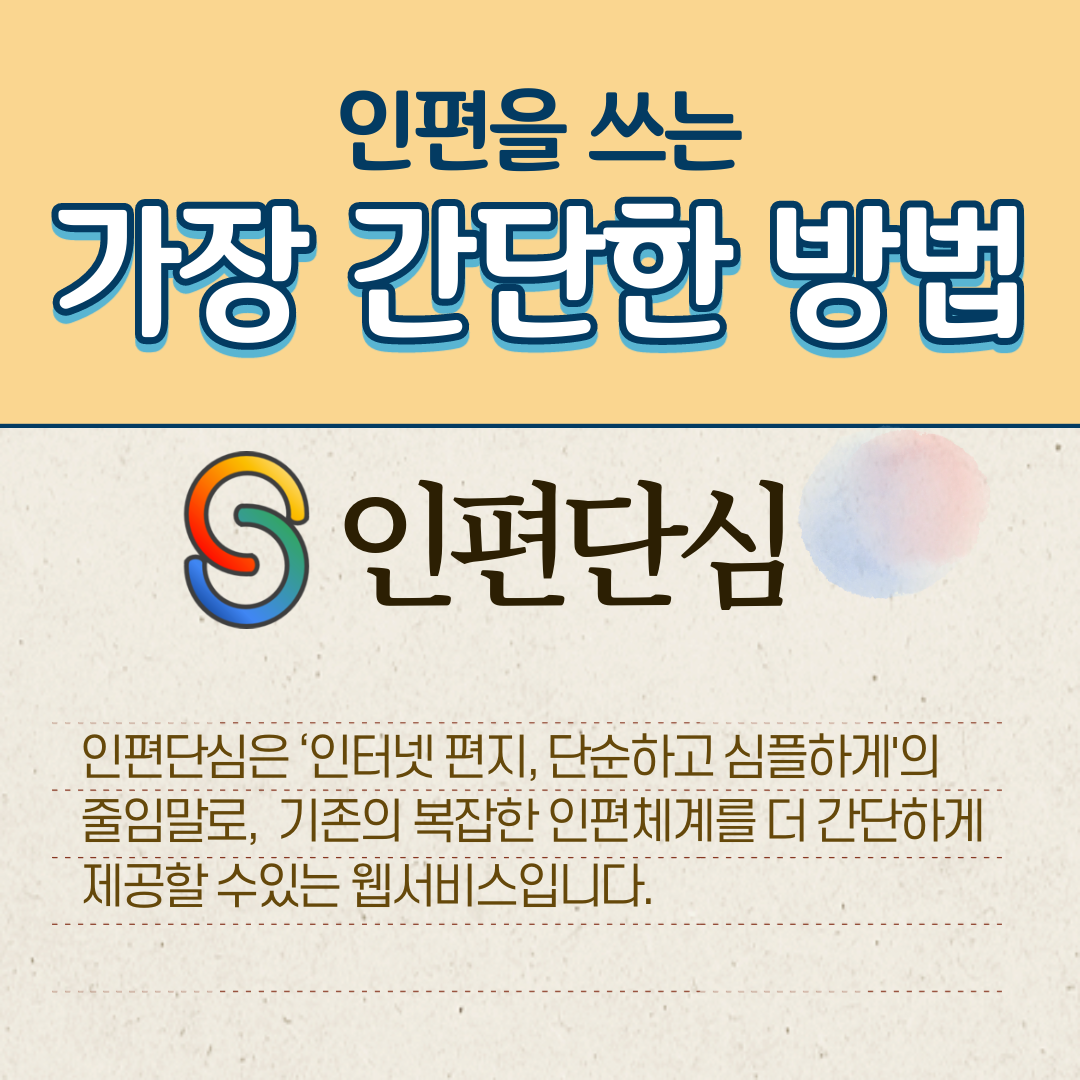
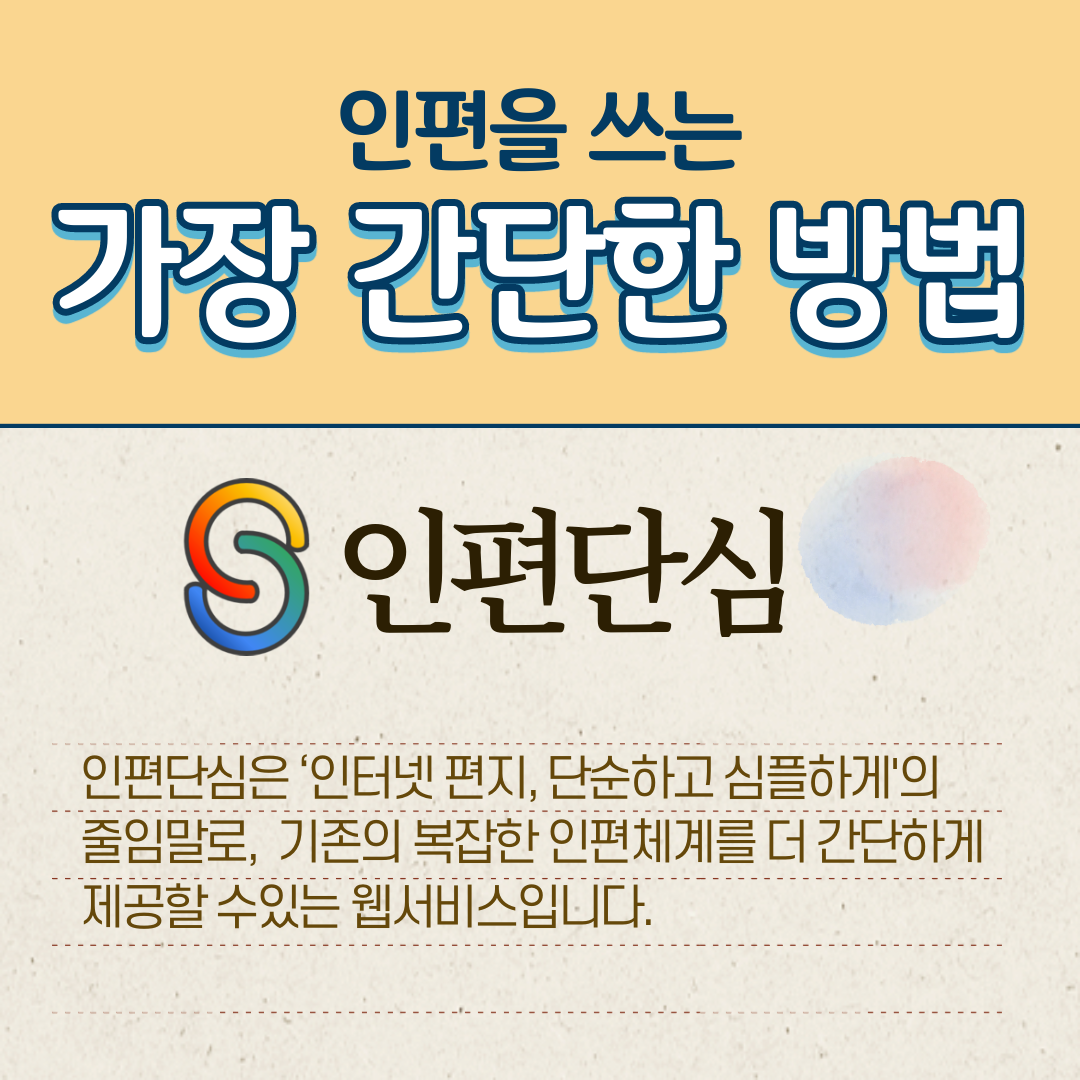
docs & resource. 포스터 사진 수정, 리드비 수정

Changed region(s): [[0.0611, 0.6722, 0.9167, 0.8861], [0.1528, 0.3972, 0.8556, 0.6111], [0.7944, 0.3972, 0.8861, 0.4278]]

diff --git a/README.md b/README.md
@@ -8,20 +8,18 @@
 
 로고는 '단순함'을 뜻하는 simple의 S와, 육,해,공,해병대 서로다른 4색의 훈련소를 연결시킨다는 의미를 담고 있습니다.
 
-## 프로젝트 설명
-<p><b>인편단심</b>은 훈련소에 편지를 보내는 사용자들이 보다 간단한 절차를 밟을 수 있고, 사용자들이 편지에 쓰는 내용과 패턴에
-기반하여 만들어진 기능을 사용할 수 있는 웹 플랫폼입니다.</p>
-## 팀소개 및 프로잭트 설명 동영상(제작중)
-[![Watch the video](https://img.youtube.com/vi/LjX3eVQdIyk/0.jpg)](https://www.youtube.com/watch?time_continue=117&v=LjX3eVQdIyk)
-
 ## 팀소개 및 프로젝트 설명 동영상(제작중)
 ![poster](img/poster.png)
 * __[데모 페이지 보기](https://osamhack2020.github.io/WEB_InpenDansim_INPENDANSIM/)__
-* __[설명영상]()__
-* __[시연영상]()__
+
+* __[설명영상 보러가기]()__
+[![newface](https://youtu.be/fRmO3CGaeWQ/0.jpg)](https://youtu.be/fRmO3CGaeWQ)
+
+* __[시연영상 보러가기](https://www.youtube.com/watch?v=Li7epsTU2LI)__
 
 [![IMAGE ALT TEXT HERE](https://img.youtube.com/vi/Li7epsTU2LI/0.jpg)](https://www.youtube.com/watch?v=Li7epsTU2LI)
-구글드라이브 업로드 https://drive.google.com/file/d/1JoCIkkanZq3_YQhAfLsmyy-4Bv-nbpzn/view?usp=sharing
+
+ -----
 
 ## 기능 설계
  
@@ -30,7 +28,6 @@
  ### 데스크탑 버전
  <img src="/img/desktop1.png" height="450px" title="desktop1" alt="desktop"></img>
  ![desktop2](img/desktop2.png)
- ![desktop3](img/desktop3.png)
  
 ### 모바일 버전
  ![mobile](img/mobile.gif)
@@ -98,6 +95,7 @@
   </td>
  </tbody></table>
  
+ -----
 
 ## 설치 및 실행 안내 (Installation & Execution Process)
 1. 인편단심 원격 저장소를 클론합니다.
